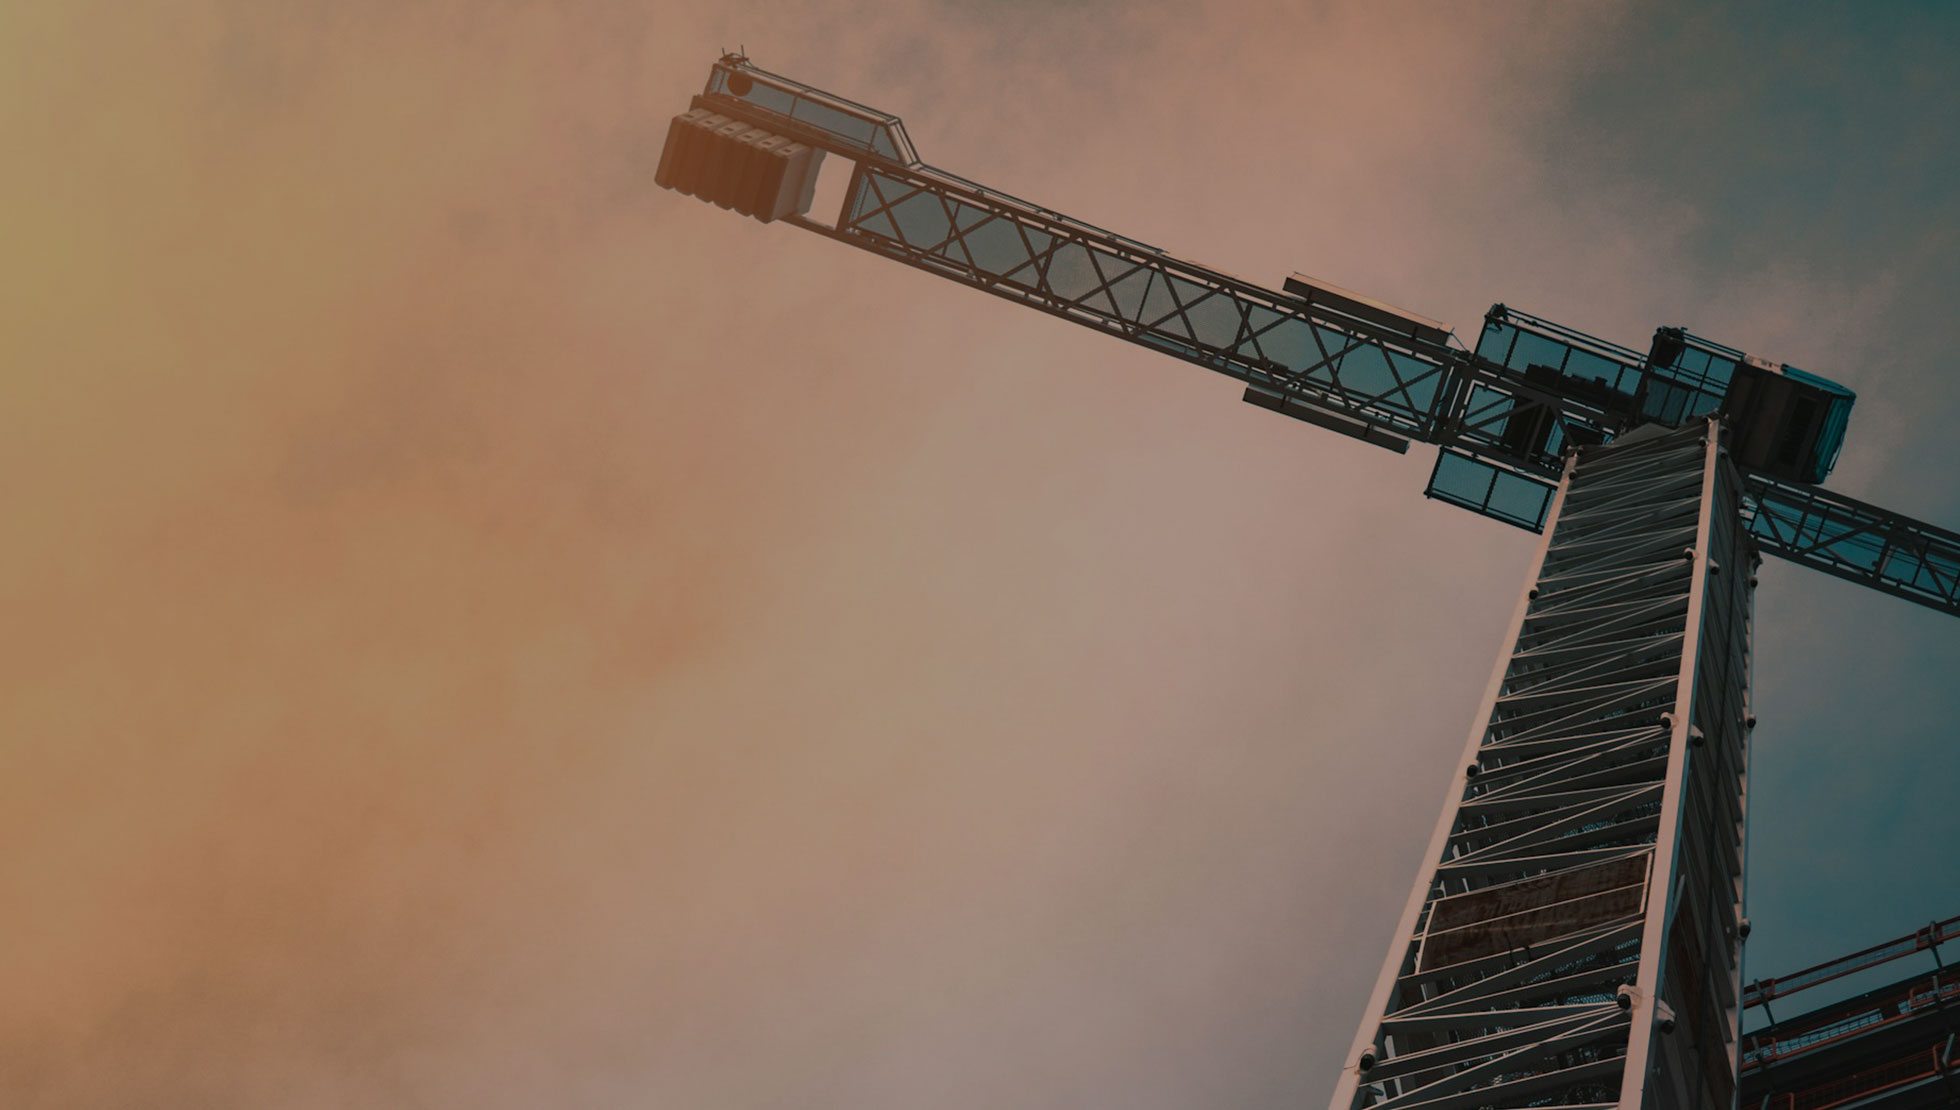
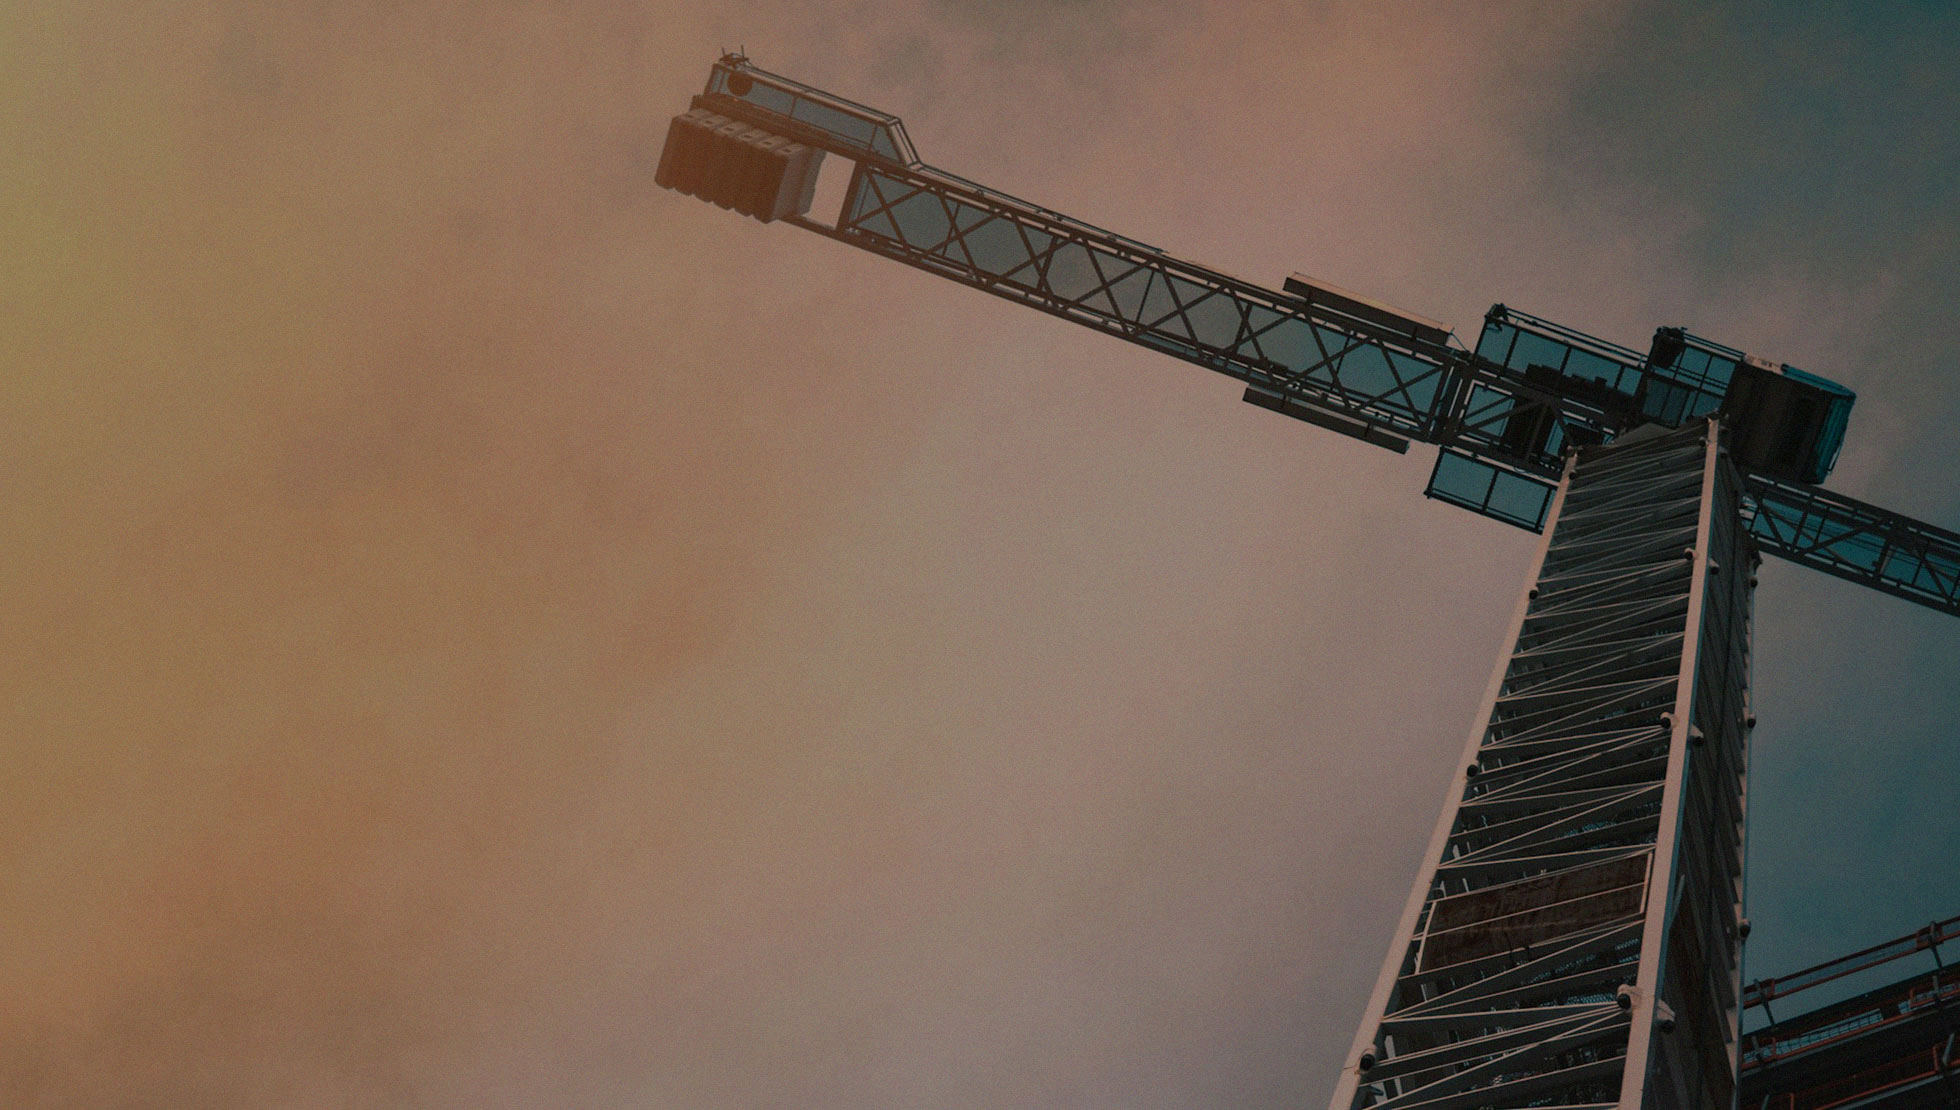
[2024.11.24]1차 배포 버전

diff --git a/css/style.css b/css/style.css
@@ -21,7 +21,7 @@ body::-webkit-scrollbar-thumb
 .bg_area{position: fixed; left: 0; top: 0; width: 100%; height: 100%; background-attachment: fixed;
   background-size: cover;
   background-position: 50% 50%;
-  transition: 0.4s ease;}
+  transition: 0.4s ease; transform-origin: center; transform: scale(1.2);}
 
 .timeline__back{display:none;}
 
@@ -51,8 +51,14 @@ body::-webkit-scrollbar-thumb
   font-weight:600;
   color: #fff;
   line-height: 1.4;
-  text-shadow: 1px 2px 5px rgba(0,0,0,0.2);
+  text-shadow: 1px 2px 5px rgba(0,0,0,0.1);
+  word-break: keep-all;
 }
+
+.timeline-item--active .timeline__content-title {
+  margin: 10px 0 20px 0;
+}
+
 .timeline__content-desc {
   margin: 0;
   font-size: 20px;
@@ -61,11 +67,18 @@ body::-webkit-scrollbar-thumb
   font-weight: 400;
   line-height: 1.6;
   color:#fff;
+  word-break: keep-all;
 }
 
-@media only screen and (max-width: 420px) {
-.timeline__content-title {font-size:36px}
-.timeline__content-desc{font-size:14px}
+@media only screen and (max-width: 1024px) {
+  .timeline__content-title {font-size: 35px;}
+  .timeline-item--active .timeline__content-title {margin: 10px 0;}
+  .timeline__content-desc {font-size: 15px;}
+}
+
+@media only screen and (max-width: 480px) {
+  .timeline__content-title {font-size:28px}
+  .timeline__content-desc{font-size:14px}
 }
 
 .timeline:before {
@@ -82,6 +95,10 @@ body::-webkit-scrollbar-thumb
     left: 40px;
   }
 }
+
+@media only screen and (max-width: 480px) {
+  .timeline:before {left: 15px;}
+}
 .timeline-item {
   padding: 40px 0;
   opacity: .3;
@@ -93,7 +110,7 @@ body::-webkit-scrollbar-thumb
   position: relative;
   transform: translateY(-40px);
 }
-.timeline-item + .timeline-item {padding:200px 0 40px}
+.timeline-item + .timeline-item {padding:270px 0 40px}
 .timeline-item:before {
   content: attr(data-text);
   letter-spacing: 3px;
@@ -131,27 +148,35 @@ body::-webkit-scrollbar-thumb
   transition: .3s all .2s;
   opacity: 1;
 }
-.timeline-item--active .timeline__content-title {
-  margin: 10px 0 20px 0;
-}
+
 @media only screen and (max-width: 767px) {
   .timeline-item {
     align-self: baseline !important;
     width: 100%;
-    padding: 0 30px 150px 80px;
+    padding: 0 0 110px 70px;
   }
+  .timeline-item + .timeline-item {padding: 200px 0 40px 70px;}
+
   .timeline-item:before {
-    left: 10px !important;
+    left: 70px !important;
     padding: 0 !important;
-    top: 50px;
+    top: -10px;
     text-align: center !important;
-    width: 60px;
+    width: 140px;
     border: none !important;
   }
+  .timeline-item + .timeline-item:before {top: 190px;}
   /*.timeline-item:last-child {
     padding-bottom: 40px;
   }*/
 }
+
+@media only screen and (max-width: 480px) {
+  .timeline-item {padding: 0 10px 110px 35px;}
+  .timeline-item:before {left: 35px!important;}
+  .timeline-item + .timeline-item {padding: 200px 10px 40px 35px;}
+}
+
 .timeline__img {
   width:100%;
   max-width:100%;
@@ -166,9 +191,13 @@ body::-webkit-scrollbar-thumb
 }
 
 @media only screen and (max-width: 1024px) {
-.timeline-container {
-  background-position:40%;
+  .timeline-container {
+    background-position:40%;
+  }
 }
+
+@media only screen and (max-width: 480px) {
+  .timeline-container {padding: 70px 0 80px;}
 }
 .timeline-container:before {
   position: absolute;
@@ -200,6 +229,10 @@ body::-webkit-scrollbar-thumb
   letter-spacing: 5px;
   margin: 10px 0 0 0;
   font-weight: normal;
+}
+
+@media only screen and (max-width: 1024px) {
+  .timeline-header__title {font-size: 50px;}
 }
 
 .demo-footer {

diff --git a/css/btn.css b/css/btn.css
@@ -41,3 +41,9 @@
   color:#222;
 }
 
+@media only screen and (max-width: 1024px) {
+  .button-8 {width: 120px; height: 40px;}
+  .eff-8 {width: 120px; height: 40px;}
+  .button-8 span {font-size: 16px; line-height: 40px;}
+}
+
